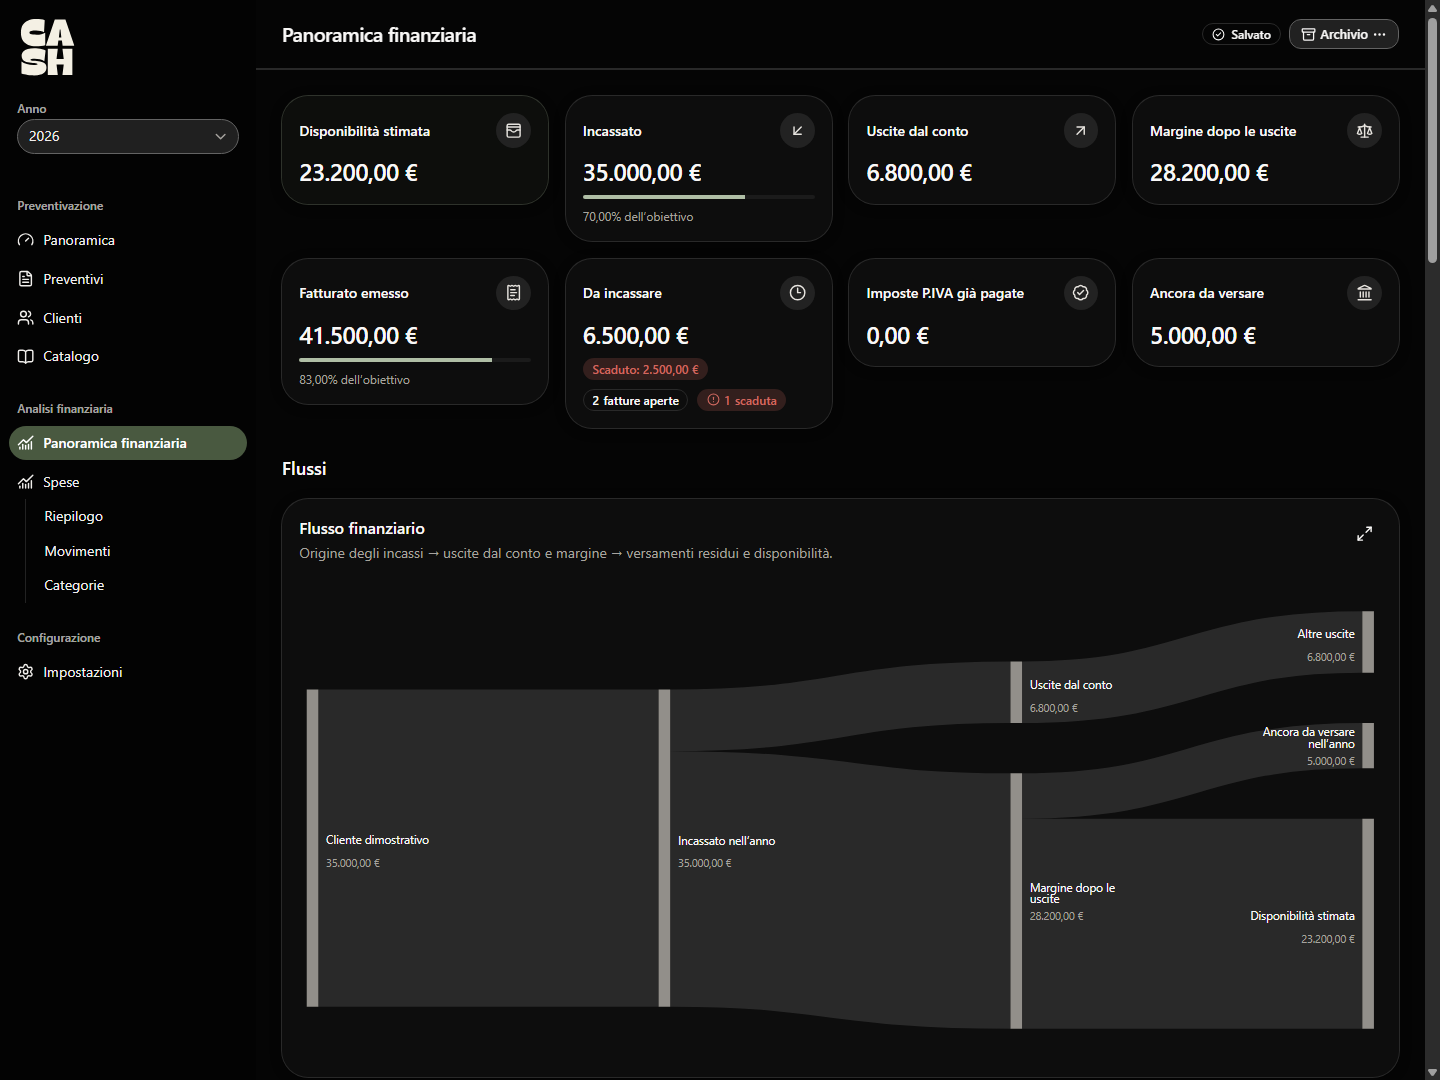
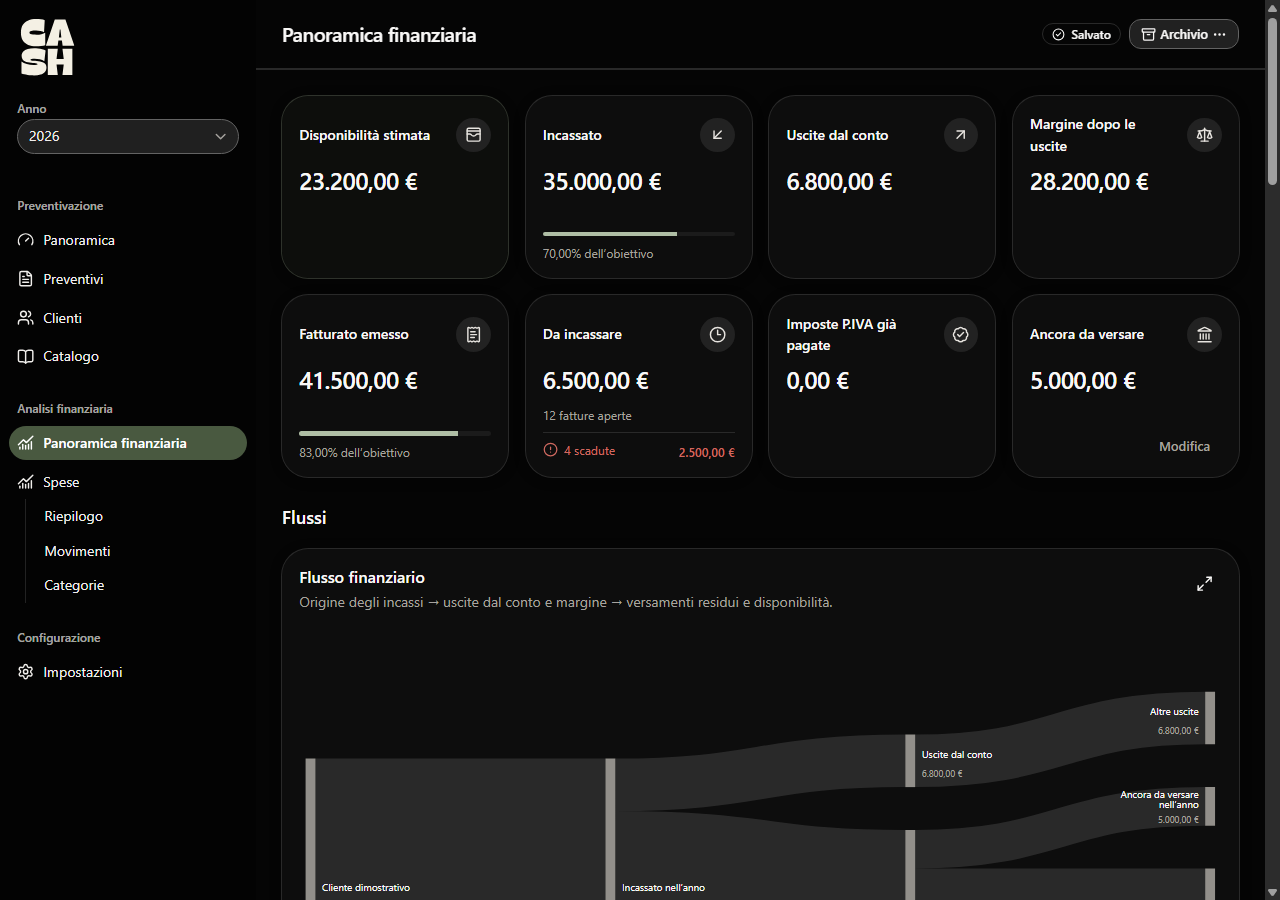
style(finance): align KPI cards and simplify outstanding invoices

diff --git a/src/renderer/components/FinancialOverviewDashboard.tsx b/src/renderer/components/FinancialOverviewDashboard.tsx
@@ -135,10 +135,10 @@ function Kpi({
   const helpId = useId();
   const content = Children.toArray(children);
   return (
-    <Card className={`min-w-0 gap-2 ${className ?? ''}`}>
+    <Card className={`h-full min-w-0 gap-3 ${className ?? ''}`}>
       <CardHeader className="gap-2">
-        <div className="flex min-h-8 items-center justify-between gap-3">
-          <CardDescription className="text-sm font-medium text-foreground">
+        <div className="flex min-h-10 items-center justify-between gap-3">
+          <CardDescription className="text-sm leading-5 font-medium text-foreground">
             {help ? (
               <Tooltip>
                 <TooltipTrigger
@@ -166,7 +166,7 @@ function Kpi({
         </CardTitle>
       </CardHeader>
       {content.length || action ? (
-        <CardContent className="space-y-2 text-xs text-muted-foreground">
+        <CardContent className="mt-auto space-y-2 text-xs text-muted-foreground">
           {content}
           {action ? <div className="flex justify-end">{action}</div> : null}
         </CardContent>
@@ -200,9 +200,12 @@ function OverviewKpis({
     o.fiscalSituation.excess !== undefined && d(o.fiscalSituation.excess).gt(0)
       ? o.fiscalSituation.excess
       : undefined;
+  const hasOverdue =
+    (o.overdueRevenue !== undefined && d(o.overdueRevenue).gt(0)) ||
+    (a !== undefined && a.overdueInvoiceCount > 0);
   return (
     <section aria-label="Indicatori principali">
-      <div className="grid min-w-0 items-start gap-4 sm:grid-cols-2 xl:grid-cols-4">
+      <div className="grid min-w-0 auto-rows-fr gap-4 sm:grid-cols-2 xl:grid-cols-4">
         <Kpi
           title="Disponibilità stimata"
           icon={WalletCards}
@@ -257,47 +260,36 @@ function OverviewKpis({
           />
         </Kpi>
         <Kpi title="Da incassare" icon={Clock3} value={o.outstandingRevenue}>
-          {o.overdueRevenue !== undefined && d(o.overdueRevenue).gt(0) ? (
-            <Badge
-              variant="destructive"
-              className="h-auto max-w-full whitespace-normal wrap-anywhere"
-            >
-              Scaduto: {amount(o.overdueRevenue)}
-            </Badge>
-          ) : null}
           {a ? (
-            <div className="flex flex-wrap gap-2">
-              <Badge
-                variant="outline"
-                className="h-auto max-w-full flex-wrap justify-start whitespace-normal wrap-anywhere"
-              >
-                <span className="font-semibold tabular-nums">
-                  {a.outstandingInvoiceCount}
-                </span>
-                <span>
-                  {a.outstandingInvoiceCount === 1
-                    ? 'fattura aperta'
-                    : 'fatture aperte'}
-                </span>
-              </Badge>
-              <Badge
-                variant={
-                  a.overdueInvoiceCount > 0 ? 'destructive' : 'secondary'
-                }
-                className="h-auto max-w-full flex-wrap justify-start whitespace-normal wrap-anywhere"
-              >
-                <CircleAlert aria-hidden="true" className="shrink-0" />
-                <span className="font-semibold tabular-nums">
-                  {a.overdueInvoiceCount}
-                </span>
-                <span>
-                  {a.overdueInvoiceCount === 1 ? 'scaduta' : 'scadute'}
-                </span>
-              </Badge>
-            </div>
+            <p className="wrap-anywhere tabular-nums">
+              {a.outstandingInvoiceCount}{' '}
+              {a.outstandingInvoiceCount === 1
+                ? 'fattura aperta'
+                : 'fatture aperte'}
+            </p>
           ) : (
             <p>Conteggi fatture non disponibili</p>
           )}
+          {hasOverdue ? (
+            <div className="flex flex-wrap items-baseline justify-between gap-x-3 gap-y-1 border-t pt-2 text-destructive">
+              <span className="inline-flex min-w-0 items-center gap-1.5 wrap-anywhere">
+                <CircleAlert
+                  aria-hidden="true"
+                  className="size-3.5 shrink-0 self-center"
+                />
+                <span className="tabular-nums">
+                  {a
+                    ? `${a.overdueInvoiceCount} ${a.overdueInvoiceCount === 1 ? 'scaduta' : 'scadute'}`
+                    : 'Scaduto'}
+                </span>
+              </span>
+              <span className="font-semibold wrap-anywhere tabular-nums">
+                {amount(o.overdueRevenue)}
+              </span>
+            </div>
+          ) : a ? (
+            <p className="border-t pt-2">Nessuna fattura scaduta</p>
+          ) : null}
         </Kpi>
         <Kpi
           title="Imposte P.IVA già pagate"

diff --git a/docs/issue-83-verifica.md b/docs/issue-83-verifica.md
@@ -57,7 +57,11 @@ e [tema scuro](images/issue-83/after/client-detail-dark.png).
 ### KPI finanziarie e navigazione: aggiornamento successivo
 
 Rimossa la sottolineatura dai titoli con tooltip in Panoramica. Le KPI finanziarie
-usano importi più compatti, icone e altezza legata al contenuto. Conteggio uscite,
+usano importi più compatti, icone e una griglia di altezze uniformi. Titoli su una
+o due righe mantengono gli importi allineati; i dettagli si allineano in basso.
+“Da incassare” mostra il conteggio delle fatture aperte come testo e una sola
+riga separata per numero e importo delle scadute, senza badge impilati.
+Conteggio uscite,
 rapporto uscite/incassato, obiettivo e totale del commercialista sono nei tooltip
 dei titoli; avanzamento, scaduti, dati mancanti e azioni restano visibili.
 
